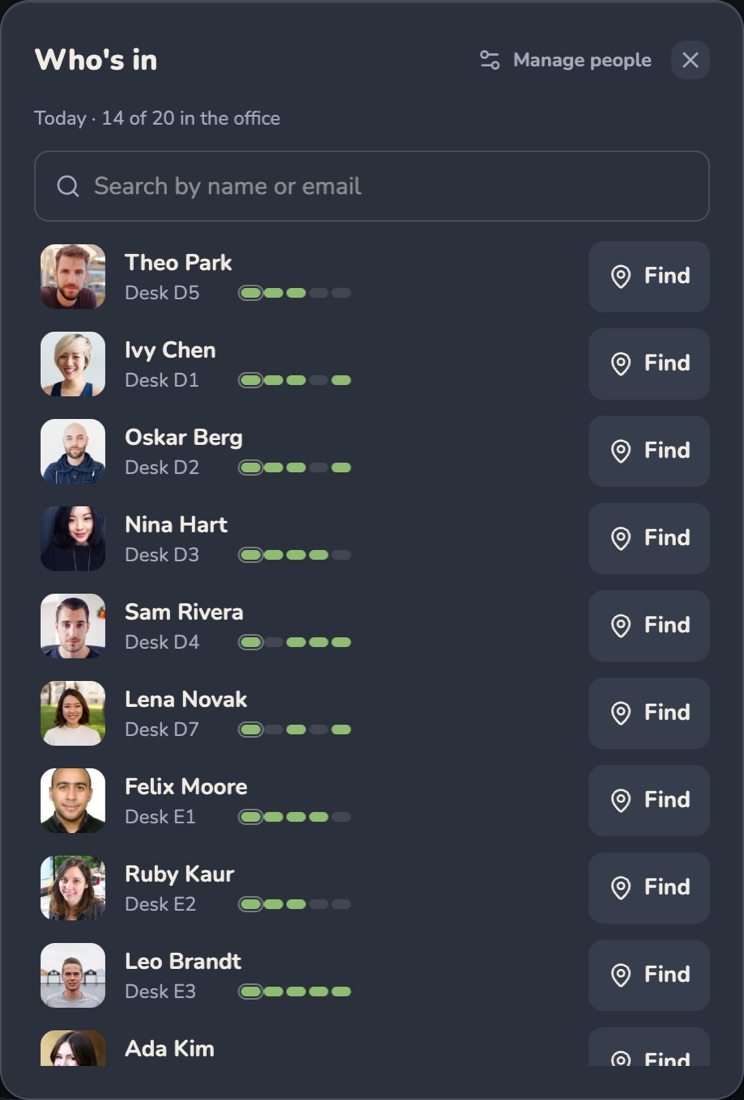
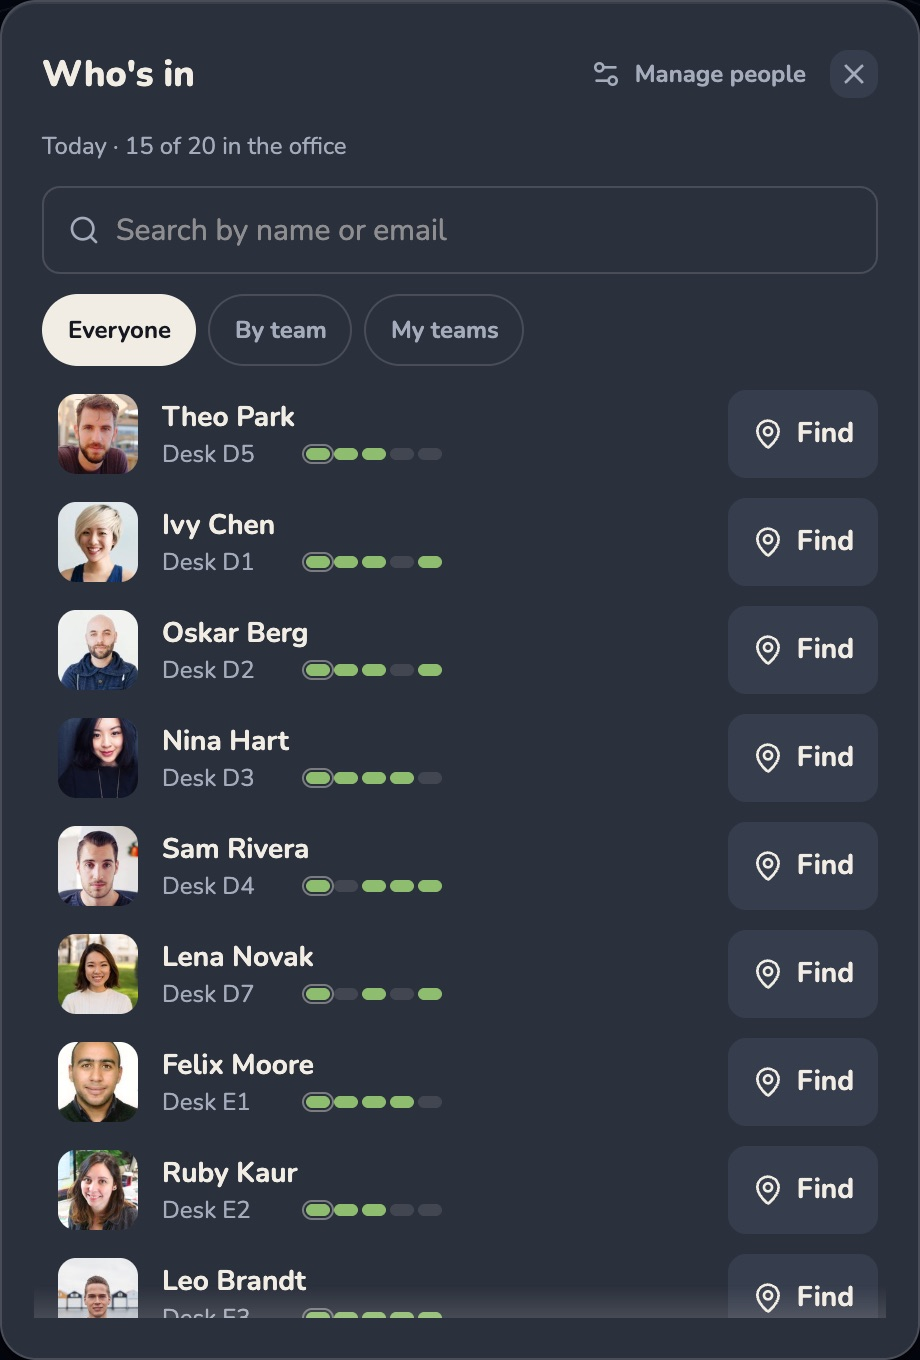
docs(teams): the product page and the self-hosting guide
The product page shows teams: a section of its own (Who's in by team), the
feature card for teams and their corners, and team days in insights' line.
The Who's in picture is retaken with today's panel.

The self-hosting guide: teams (people, zones kept for a team, team days, what
people get), the import's columns (team among them), opening days, and teams
in insights.

diff --git a/app/i18n/cs.ts b/app/i18n/cs.ts
@@ -1205,7 +1205,6 @@ export const cs: Messages = {
   "Get started": "Začít",
   "Find me a seat": "Najdi mi místo",
   "Draw your office in 3D": "Nakreslete kancelář ve 3D",
-  "Zones for teams": "Zóny pro týmy",
   "How it works": "Jak to funguje",
   "Draw your office": "Nakreslete kancelář",
   Product: "Produkt",
@@ -1235,8 +1234,6 @@ export const cs: Messages = {
     "Někdo chce svůj vlastní stůl. Proč ne. Když tu zrovna není, stůl nezůstane prázdný.",
   "Walls, doors, windows, sofas, plants. More floors if you've got them. Or grab a template and tweak it.":
     "Zdi, dveře, okna, gauče, kytky. Víc pater, pokud je máte. Nebo vezměte šablonu a upravte si ji.",
-  "Give each team its own patch of floor, colour it in and number the desks.":
-    "Dejte každému týmu kus podlahy, vybarvěte ho a očíslujte stoly.",
   "First day? Hotseat walks you from the door to your desk, stairs included.":
     "První den? Hotseat vás dovede ode dveří až ke stolu, i po schodech.",
   "Numbers for whoever runs the office": "Čísla pro toho, kdo má kancelář na starost",
@@ -1266,8 +1263,8 @@ export const cs: Messages = {
   "Finding a seat on a phone: the sentence and the best match, desk D6":
     "Hledání místa na telefonu: věta a nejlepší shoda, stůl D6",
   "Find out if Fridays really are that empty": "Zjistěte, jestli jsou pátky opravdu tak prázdné",
-  "How full the office gets, the busiest day, every floor and every desk — and how often those permanent desks sit unused.":
-    "Jak plná kancelář bývá, který den je nejrušnější, každé patro a každý stůl — a jak často stálé stoly zejí prázdnotou.",
+  "How full the office gets, the busiest day, every floor and every desk — how often those permanent desks sit unused, and whether teams really turn up on their team days.":
+    "Jak plná kancelář bývá, který den je nejrušnější, každé patro a každý stůl — jak často stálé stoly zejí prázdnotou a jestli týmy na své týmové dny opravdu dorazí.",
   "CSV for the spreadsheet fans": "CSV pro milovníky tabulek",
   "Insights: 67% full, Wednesday the busiest day, desks in use per week and a heatmap of every working day":
     "Přehledy: obsazenost 67 %, nejrušnější středa, využité stoly po týdnech a teplotní mapa všech pracovních dnů",
@@ -1532,7 +1529,7 @@ export const cs: Messages = {
   "New teams: {teams}.": "Nové týmy: {teams}.",
   "Change the zone": "Změnit zónu",
   "Where the team sits. Find a seat puts its people there first.":
-    "Kde tým sedí. Hledání místa nabídne jeho lidem nejdřív tuto zónu.",
+    "Kde tým sedí. „Najít místo“ nabídne jeho lidem nejdřív tuto zónu.",
   "Search offices and zones": "Hledat kanceláře a zóny",
   "No other office has zones yet.": "Žádná další kancelář zatím nemá zóny.",
   "Nothing matches “{query}”": "Nic neodpovídá „{query}“",
@@ -1568,4 +1565,14 @@ export const cs: Messages = {
     "{share} z toho tým · {there} jejich dnů tam",
   "No zone here": "Zde bez zóny",
   "{in} of {total} in": "{in} z {total} v kanceláři",
+  "Keep the gang together": "Parta pěkně pohromadě",
+  "Put people in teams and give each one its corner of the office and its days. Find a seat sits you next to them, and Who's in shows who's around, team by team.":
+    "Rozdělte lidi do týmů a dejte každému jeho kout kanceláře a jeho dny. „Najít místo“ vás posadí k nim a v „Kdo tu je“ vidíte, kdo dorazil, tým po týmu.",
+  "Team days marked in the calendar": "Týmové dny vyznačené v kalendáři",
+  "A corner kept for the team, if you want one": "Kout vyhrazený pro tým, když o něj stojíte",
+  "Who's in by team: Design, Engineering, Plant club with its four people, Support — and how many of each are in":
+    "Kdo tu je podle týmů: Design, Engineering, Plant club se svými čtyřmi lidmi, Support — a kolik z každého je v kanceláři",
+  "Teams and their corners": "Týmy a jejich kouty",
+  "Give each team its own patch of floor and the days it comes in together. Finding a seat puts you right next to them.":
+    "Dejte každému týmu jeho kus kanceláře a dny, kdy chodí spolu. Při hledání místa vás posadíme rovnou k nim.",
 }

diff --git a/app/components/product/ProductPage.tsx b/app/components/product/ProductPage.tsx
@@ -27,6 +27,7 @@ const PICTURES = {
   whosIn: `${import.meta.env.BASE_URL}images/product/whos-in.jpg`,
   phone: `${import.meta.env.BASE_URL}images/product/phone.jpg`,
   insights: `${import.meta.env.BASE_URL}images/product/insights.jpg`,
+  teams: `${import.meta.env.BASE_URL}images/product/teams.jpg`,
 }
 
 /** The night blue of the sign-in screen: the closing call to action stands on it. */
@@ -110,8 +111,10 @@ export const ProductPage = () => {
                   "Walls, doors, windows, sofas, plants. More floors if you've got them. Or grab a template and tweak it."
                 )}
               </Feature>
-              <Feature icon={Layers} title={t("Zones for teams")}>
-                {t("Give each team its own patch of floor, colour it in and number the desks.")}
+              <Feature icon={Layers} title={t("Teams and their corners")}>
+                {t(
+                  "Give each team its own patch of floor and the days it comes in together. Finding a seat puts you right next to them."
+                )}
               </Feature>
               <Feature icon={Footprints} title={t("Show the way")}>
                 {t("First day? Hotseat walks you from the door to your desk, stairs included.")}
@@ -180,9 +183,30 @@ export const ProductPage = () => {
             }
           />
           <Showcase
+            title={t("Keep the gang together")}
+            lead={t(
+              "Put people in teams and give each one its corner of the office and its days. Find a seat sits you next to them, and Who's in shows who's around, team by team."
+            )}
+            points={[
+              t("Team days marked in the calendar"),
+              t("A corner kept for the team, if you want one"),
+            ]}
+            picture={
+              <Picture
+                src={PICTURES.teams}
+                isPanel
+                alt={t(
+                  "Who's in by team: Design, Engineering, Plant club with its four people, Support — and how many of each are in"
+                )}
+                className="mx-auto max-w-sm"
+              />
+            }
+            isFlipped
+          />
+          <Showcase
             title={t("Find out if Fridays really are that empty")}
             lead={t(
-              "How full the office gets, the busiest day, every floor and every desk — and how often those permanent desks sit unused."
+              "How full the office gets, the busiest day, every floor and every desk — how often those permanent desks sit unused, and whether teams really turn up on their team days."
             )}
             points={[t("Look back or plan ahead"), t("CSV for the spreadsheet fans")]}
             picture={
@@ -194,7 +218,6 @@ export const ProductPage = () => {
                 )}
               />
             }
-            isFlipped
           />
           <Showcase
             title={t("Build your office in an afternoon")}
@@ -210,6 +233,7 @@ export const ProductPage = () => {
                 )}
               />
             }
+            isFlipped
           />
         </div>
 

diff --git a/docs/self-hosting/administration.md b/docs/self-hosting/administration.md
@@ -53,8 +53,40 @@ limit sign-in there, e.g. by assigning the app to a group.
   desks, and sees insights.
 - **User**: books desks, sees who's in, finds seats.
 
-Make someone an admin, or remove them from the company, from their row.
-Removing someone cancels their bookings and frees their permanent desk.
+Make someone an admin, put them in teams, or remove them from the company,
+from their row (**Manage**). Removing someone cancels their bookings and
+frees their permanent desk.
+
+**Import people** adds many at once from a CSV: an export of Google
+Workspace or Microsoft 365 users, or any spreadsheet with an email column.
+They're members straight away, before they ever sign in. Columns are
+recognised by their names:
+
+| Column | What it does |
+| --- | --- |
+| `email` (or `primary email`, `user principal name`…) | Required. Who they are. |
+| `name`, or `first name` + `last name` | How they're shown until they sign in. |
+| `role` | `admin` makes them an admin. |
+| `department`, `org unit`… | Lets you import part of the list. |
+| `team` | Puts them in teams, several separated by `;`. Teams not there yet are made. |
+
+## Teams
+
+People who like to sit together, in any office: **Settings → Teams**.
+Someone can be in several. For each team:
+
+- **People**: pick them here, from Members (**Manage → Teams…**), or with
+  the import's `team` column.
+- **Where they sit**: a zone in each office (zones are drawn in the editor).
+  A zone can be **kept for the team**: others can book its desks only from
+  1–7 days before the day. The usual-desk job and the waitlist respect it too.
+- **Team days**: the weekdays the team comes in together. People see them
+  in the day picker, and get a nudge on those days if they haven't booked.
+
+What people get: **Find a seat → With my team** (it starts with that for
+anyone in a team who hasn't chosen anything else), Who's in **by team**,
+their teammates ringed in the team's colour on the map, and teams in
+search and on profiles.
 
 ## Offices
 
@@ -64,10 +96,13 @@ Removing someone cancels their bookings and frees their permanent desk.
   as you go.
 - **Permanent desks**: select a desk in the editor and give it a resident.
   When they're away, they give it up for the day and others can book it.
-- **Office settings**: name, description, a cover photo, and its **time
-  zone**.
+- **Office settings**: name, description, a cover photo, its **time
+  zone**, and **opening**: the weekdays people can book, and days it's
+  closed (holidays, a move). Closing a day cancels the bookings already made
+  for it, and their people are told why.
 - **Insights** (admins): how full each office gets, the busiest days, which
-  desks are used, and CSV export.
+  desks are used, how each team comes in (together, on its team days, to
+  its zone), and CSV export.
 
 Every office decides what "today" is (and when the hourly job books usual
 desks) by its time zone. A new office takes the time zone of the admin who

diff --git a/docs/self-hosting/README.md b/docs/self-hosting/README.md
@@ -17,8 +17,8 @@ This guide is for whoever installs and looks after it.
 ## What you get
 
 The same Hotseat as the hosted service: the 3D office, booking by the day,
-Find a seat, Who's in, permanent desks, the office editor, insights, phones,
-English and Czech.
+Find a seat, Who's in, teams, permanent desks, opening days and holidays,
+the office editor, insights, phones, English and Czech.
 
 A self-hosted installation is **one company**. Whoever sets it up names it
 and decides who can join, usually everyone with a company email address.
